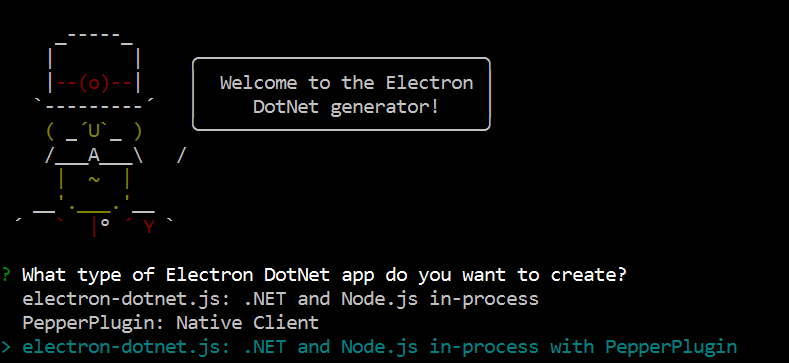
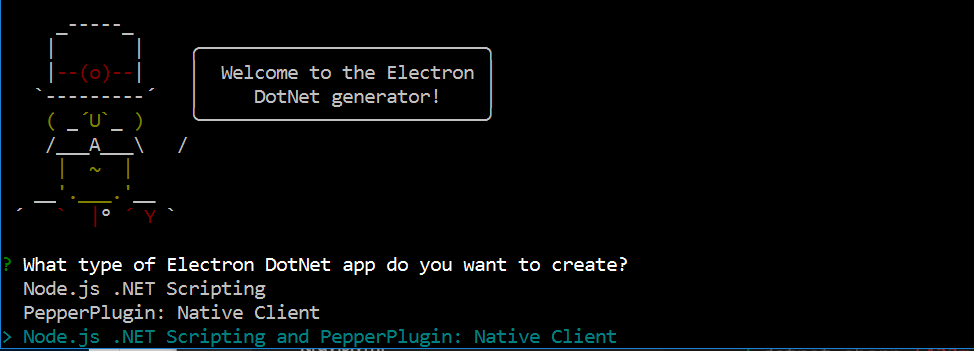
Modify template descriptive name and doc screenshots

Changed region(s): [[0.0, 0.7123, 1.0, 1.0], [0.0304, 0.057, 0.6388, 0.6553], [0.0, 0.5983, 0.0304, 0.6268]]

diff --git a/Tools/generator-electron-dotnet/generators/app/index.js b/Tools/generator-electron-dotnet/generators/app/index.js
@@ -56,7 +56,7 @@ module.exports = yeoman.generators.Base.extend({
                 message: 'What type of Electron DotNet app do you want to create?',
                 choices: [
                     {
-                        name: 'electron-dotnet.js: .NET and Node.js in-process',
+                        name: 'Node.js .NET Scripting',
                         value: 'dotnet-sharp'
                     },
                     {
@@ -64,7 +64,7 @@ module.exports = yeoman.generators.Base.extend({
                         value: 'dotnet-plugin'
                     },
                     {
-                        name: 'electron-dotnet.js: .NET and Node.js in-process with PepperPlugin',
+                        name: 'Node.js .NET Scripting and PepperPlugin: Native Client',
                         value: 'dotnet-sharp-plugin'
                     }
                 ]
